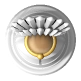
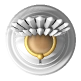
Mexica: gentle bevels on the hem's raised pattern, and careful steps over it
Claude-Session: https://claude.ai/code/session_01P5r4sdmPFjyHFbMXuL3JW2

diff --git a/games/mexica-ui/src/lib/board/pilliLight.ts b/games/mexica-ui/src/lib/board/pilliLight.ts
@@ -219,6 +219,7 @@ const HEM = {
     steps: 2,
     line: 0.32,
     soft: 0.14,
+    bevel: 0.3,
     studs: 18,
     stud: 0.55,
     teeth: 12
@@ -335,7 +336,10 @@ function body(style: PilliStyle, p: Vec): number {
     if (style.arms) shape = blend(shape, arms(style, p), 0.7)
     if (style.trim) {
         shape = Math.min(shape, cord(p))
-        shape -= relief(style, p)
+        // The relief's slopes make the distance change faster than distance, so rays step
+        // more carefully over it, or some stop inside and take a false shadow.
+        const raised = relief(style, p)
+        if (raised !== 0) shape = (shape - raised) * 0.6
         if (style.hem === 'studs') shape = Math.min(shape, studs(style, p))
     }
     const tied = knotOf(style)
@@ -389,8 +393,8 @@ function triangles(style: PilliStyle, p: Vec): number {
     const width = (2 * Math.PI * robeRadius(style, p[2])) / HEM.teeth
     const slant = 1 / Math.hypot(1, (2 * height) / width)
     return (
-        smoothstep(-HEM.soft, HEM.soft, (top - p[2]) * slant) *
-        smoothstep(-HEM.soft, HEM.soft, p[2] - floor)
+        smoothstep(-HEM.bevel, HEM.bevel, (top - p[2]) * slant) *
+        smoothstep(-HEM.bevel, HEM.bevel, p[2] - floor)
     )
 }
 
@@ -417,7 +421,8 @@ function fret(p: Vec): number {
     const top = HEM.foot + inner + height * (0.2 + 0.8 * level)
     const above = p[2] - (HEM.foot + inner)
     return (
-        smoothstep(-HEM.soft, HEM.soft, above) * (1 - smoothstep(-HEM.soft, HEM.soft, p[2] - top))
+        smoothstep(-HEM.bevel, HEM.bevel, above) *
+        (1 - smoothstep(-HEM.bevel, HEM.bevel, p[2] - top))
     )
 }
 
